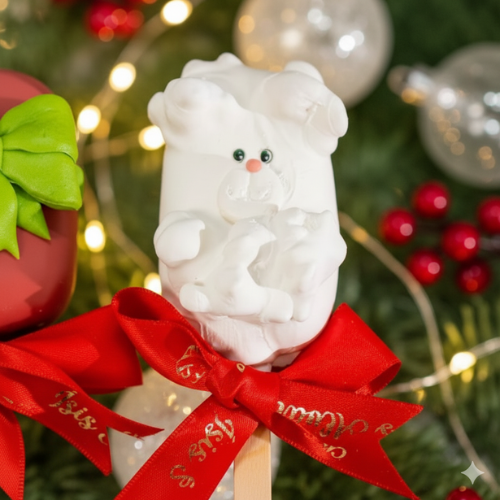
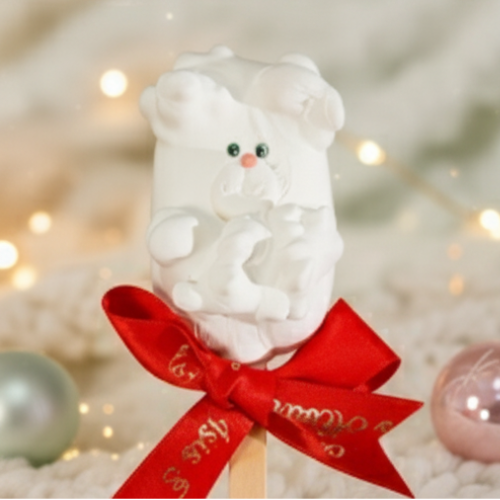
Ajustes

diff --git a/v2.html b/v2.html
@@ -55,7 +55,7 @@
 <body class="bg-background-light dark:bg-background-dark text-slate-800 dark:text-slate-200">
     <div class="relative w-full flex flex-col min-h-screen">
         <header class="w-full">
-            <div class="h-80 w-full bg-cover bg-center" style='background-image: url("./img/bolos_no_palito-fundo-chamativo.png");'>
+            <div class="h-80 w-full bg-cover bg-center" style='background-image: url("./img/bolos_no_palito-fundo-bege.png");'>
                 <div class="h-full w-full bg-black/30"></div>
             </div>
         </header>
